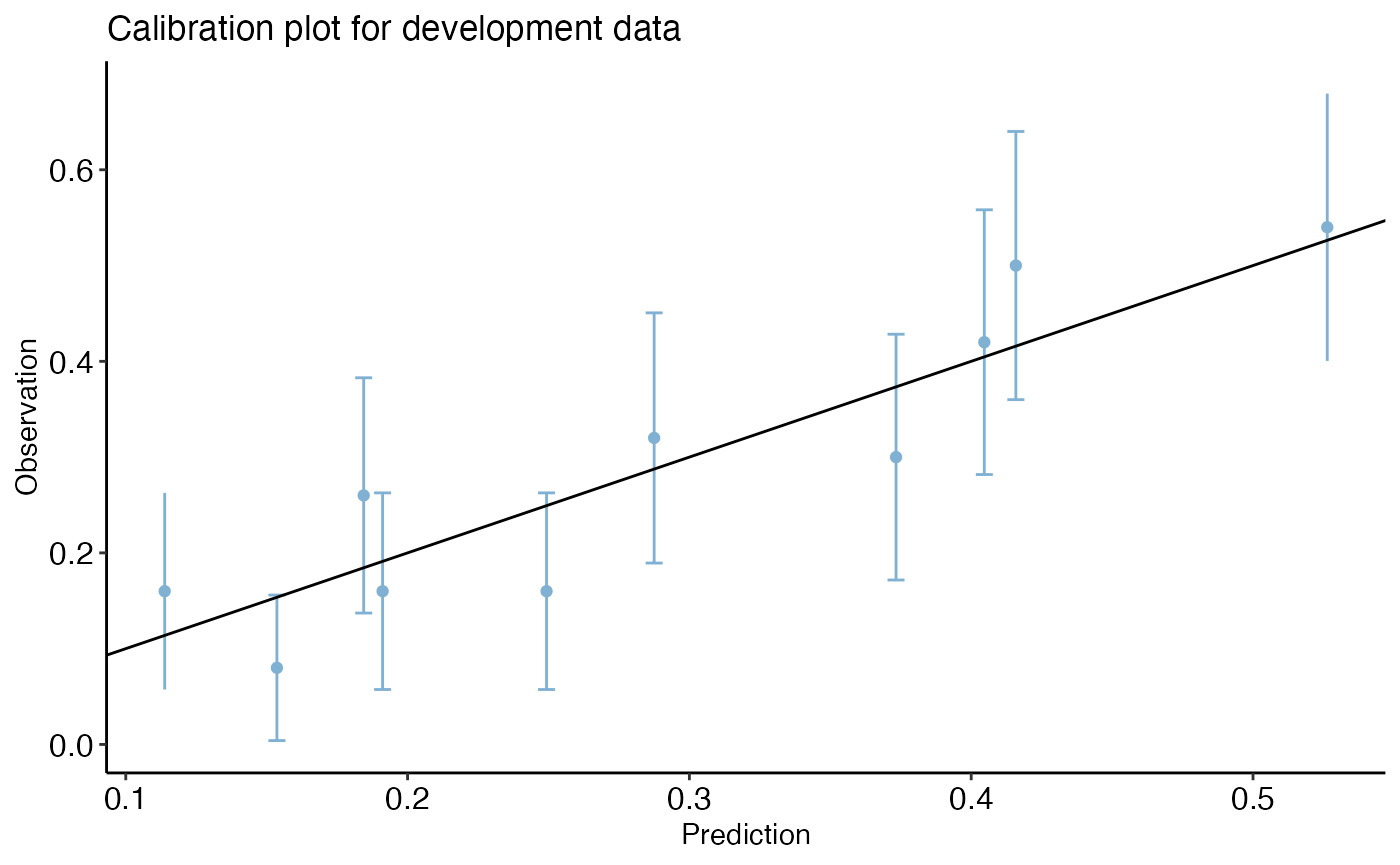
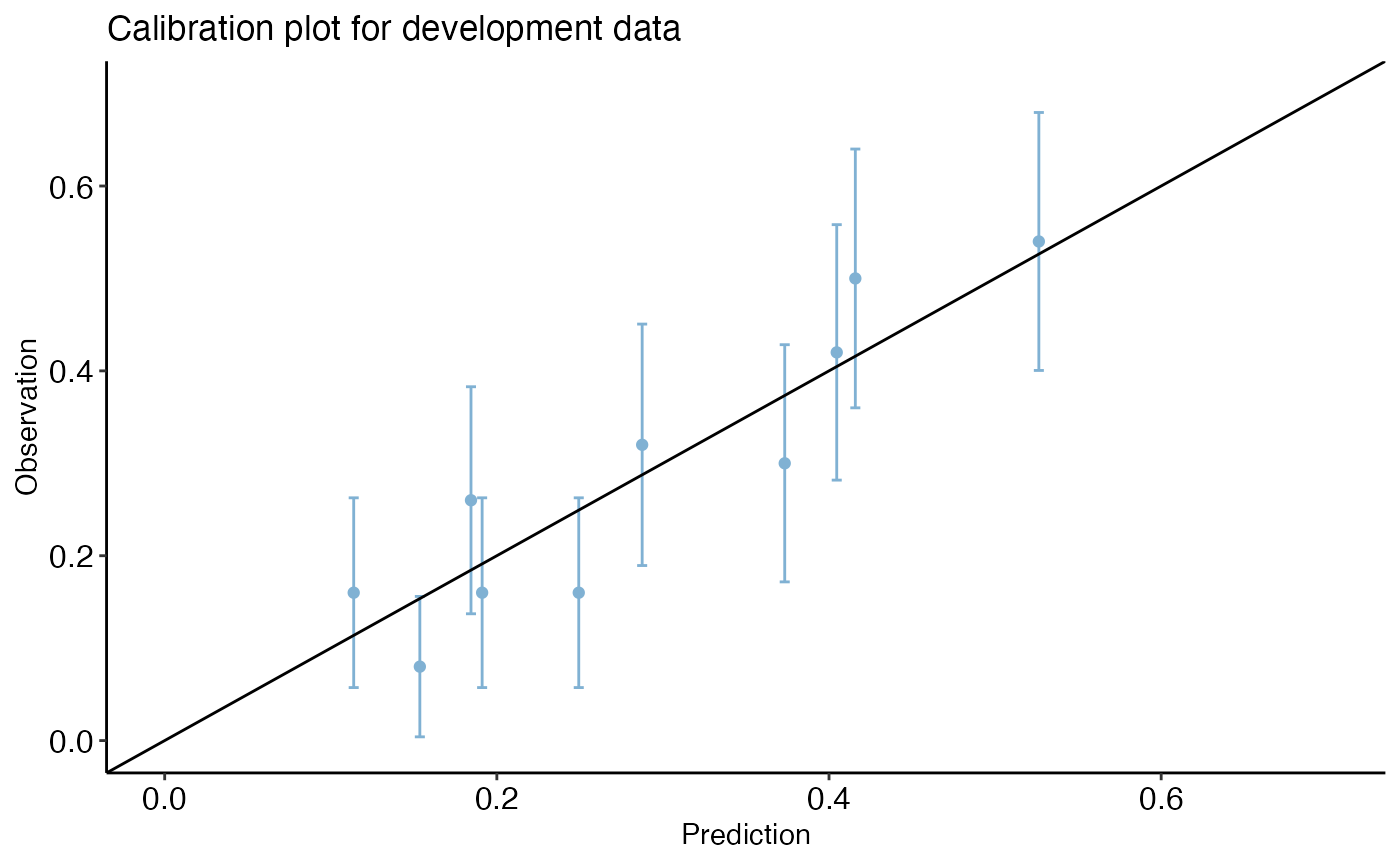
Same axis for calibraiton plot https://github.com/resplab/predtools/issues/6

diff --git a/docs/articles/calibPlot.html b/docs/articles/calibPlot.html
@@ -239,11 +239,11 @@ datasets by using <code>calibration_plot</code> function.</p>
 <span><span class="va">dev_data</span><span class="op">$</span><span class="va">pred</span> <span class="op">&lt;-</span> <span class="fu"><a href="https://rdrr.io/r/stats/predict.glm.html" class="external-link">predict.glm</a></span><span class="op">(</span><span class="va">reg</span>, type <span class="op">=</span> <span class="st">'response'</span><span class="op">)</span></span>
 <span><span class="va">val_data</span><span class="op">$</span><span class="va">pred</span> <span class="op">&lt;-</span> <span class="fu"><a href="https://rdrr.io/r/stats/predict.glm.html" class="external-link">predict.glm</a></span><span class="op">(</span><span class="va">reg</span>, newdata <span class="op">=</span> <span class="va">val_data</span>, type <span class="op">=</span> <span class="st">'response'</span><span class="op">)</span></span>
 <span></span>
-<span><span class="fu"><a href="../reference/calibration_plot.html">calibration_plot</a></span><span class="op">(</span>data <span class="op">=</span> <span class="va">dev_data</span>, obs <span class="op">=</span> <span class="st">"y"</span>, pred <span class="op">=</span> <span class="st">"pred"</span>, title <span class="op">=</span> <span class="st">"Calibration plot for development data"</span><span class="op">)</span></span>
+<span><span class="fu"><a href="../reference/calibration_plot.html">calibration_plot</a></span><span class="op">(</span>data <span class="op">=</span> <span class="va">dev_data</span>, obs <span class="op">=</span> <span class="st">"y"</span>, pred <span class="op">=</span> <span class="st">"pred"</span>, title <span class="op">=</span> <span class="st">"Calibration plot for development data"</span>, y_lim <span class="op">=</span> <span class="fu"><a href="https://rdrr.io/r/base/c.html" class="external-link">c</a></span><span class="op">(</span><span class="fl">0</span>, <span class="fl">0.7</span><span class="op">)</span>, x_lim<span class="op">=</span><span class="fu"><a href="https://rdrr.io/r/base/c.html" class="external-link">c</a></span><span class="op">(</span><span class="fl">0</span>, <span class="fl">0.7</span><span class="op">)</span><span class="op">)</span></span>
 <span><span class="co">#&gt; $calibration_plot</span></span></code></pre></div>
 <p><img src="calibPlot_files/figure-html/unnamed-chunk-6-1.png" width="700"></p>
 <div class="sourceCode" id="cb5"><pre class="downlit sourceCode r">
-<code class="sourceCode R"><span><span class="fu"><a href="../reference/calibration_plot.html">calibration_plot</a></span><span class="op">(</span>data <span class="op">=</span> <span class="va">val_data</span>, obs <span class="op">=</span> <span class="st">"y"</span>, pred <span class="op">=</span> <span class="st">"pred"</span>, y_lim <span class="op">=</span> <span class="fu"><a href="https://rdrr.io/r/base/c.html" class="external-link">c</a></span><span class="op">(</span><span class="fl">0</span>, <span class="fl">1</span><span class="op">)</span>,</span>
+<code class="sourceCode R"><span><span class="fu"><a href="../reference/calibration_plot.html">calibration_plot</a></span><span class="op">(</span>data <span class="op">=</span> <span class="va">val_data</span>, obs <span class="op">=</span> <span class="st">"y"</span>, pred <span class="op">=</span> <span class="st">"pred"</span>, y_lim <span class="op">=</span> <span class="fu"><a href="https://rdrr.io/r/base/c.html" class="external-link">c</a></span><span class="op">(</span><span class="fl">0</span>, <span class="fl">1</span><span class="op">)</span>, x_lim<span class="op">=</span><span class="fu"><a href="https://rdrr.io/r/base/c.html" class="external-link">c</a></span><span class="op">(</span><span class="fl">0</span>, <span class="fl">1</span><span class="op">)</span>,</span>
 <span>                 title <span class="op">=</span> <span class="st">"Calibration plot for validation data"</span>, group <span class="op">=</span> <span class="st">"sex"</span><span class="op">)</span></span>
 <span><span class="co">#&gt; $calibration_plot</span></span></code></pre></div>
 <p><img src="calibPlot_files/figure-html/unnamed-chunk-6-2.png" width="700"></p>

diff --git a/docs/articles/mROC.html b/docs/articles/mROC.html
@@ -307,9 +307,9 @@ indicating that the model is not calibrated.</p>
 <code class="sourceCode R"><span><span class="va">res</span><span class="op">&lt;-</span><span class="fu"><a href="../reference/mROC_inference.html">mROC_inference</a></span><span class="op">(</span><span class="va">val_data</span><span class="op">[</span>,<span class="st">'y'</span><span class="op">]</span>,<span class="va">pred</span><span class="op">)</span></span>
 <span></span>
 <span><span class="va">res</span></span>
-<span><span class="co">#&gt; Mean calibration statistic (A):0.00835868(Obs&gt;Pred) (p:0.69811)</span></span>
-<span><span class="co">#&gt; mROC/ROC equality statsitic (B):0.05910898 (p:0.04691)</span></span>
-<span><span class="co">#&gt; Unified statistic:6.884255 (df:4.020189,p:0.1437025)</span></span></code></pre></div>
+<span><span class="co">#&gt; Mean calibration statistic (A):0.00835868(Obs&gt;Pred) (p:0.69797)</span></span>
+<span><span class="co">#&gt; mROC/ROC equality statsitic (B):0.05910898 (p:0.0476)</span></span>
+<span><span class="co">#&gt; Unified statistic:6.872832 (df:4.030501,p:0.1451457)</span></span></code></pre></div>
 </div>
 </div>
   </div>
